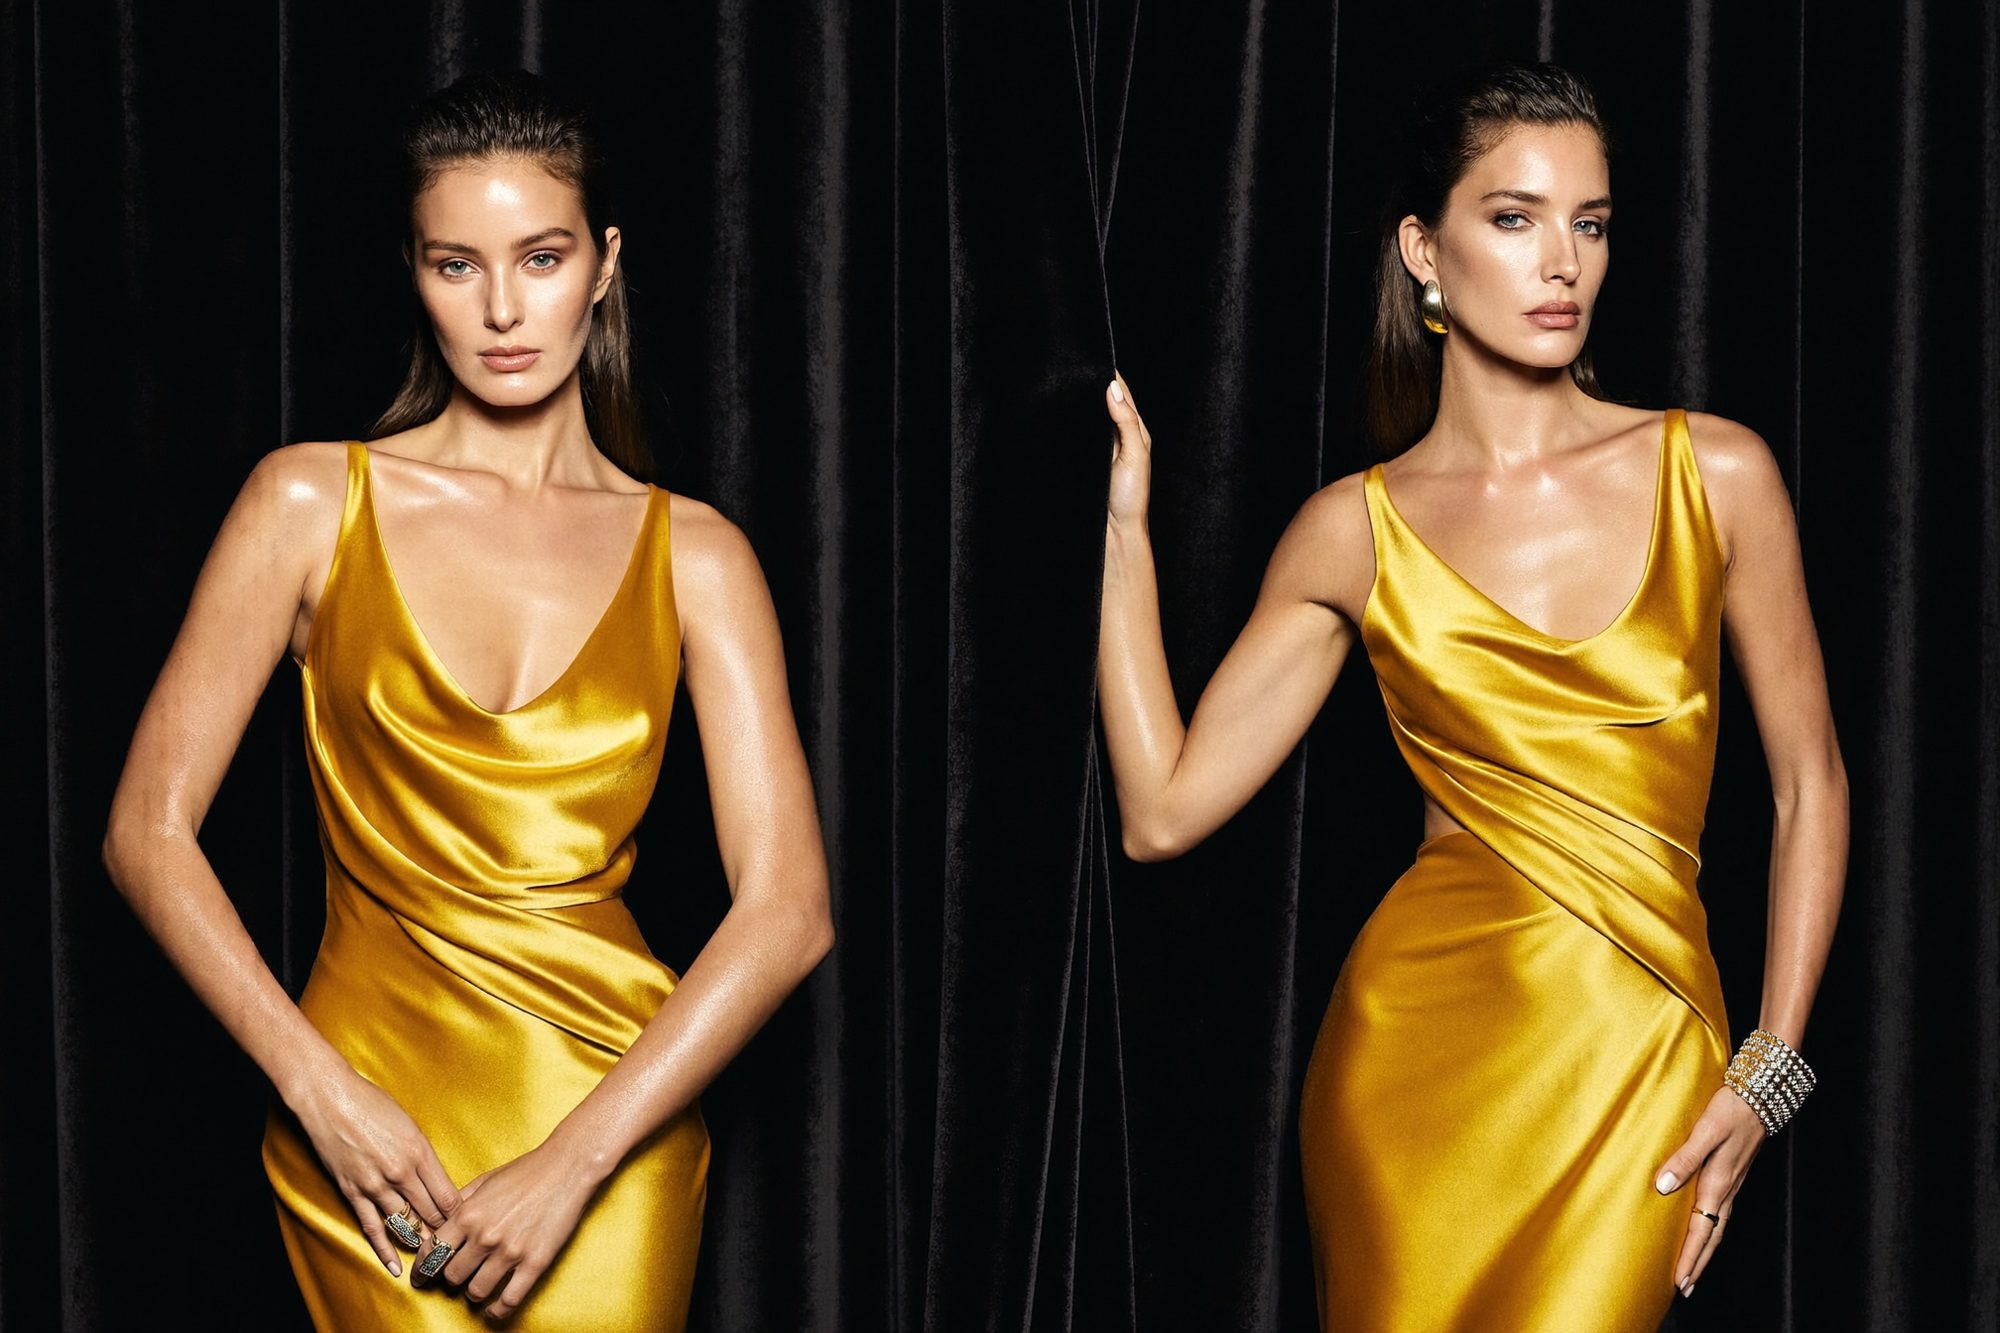
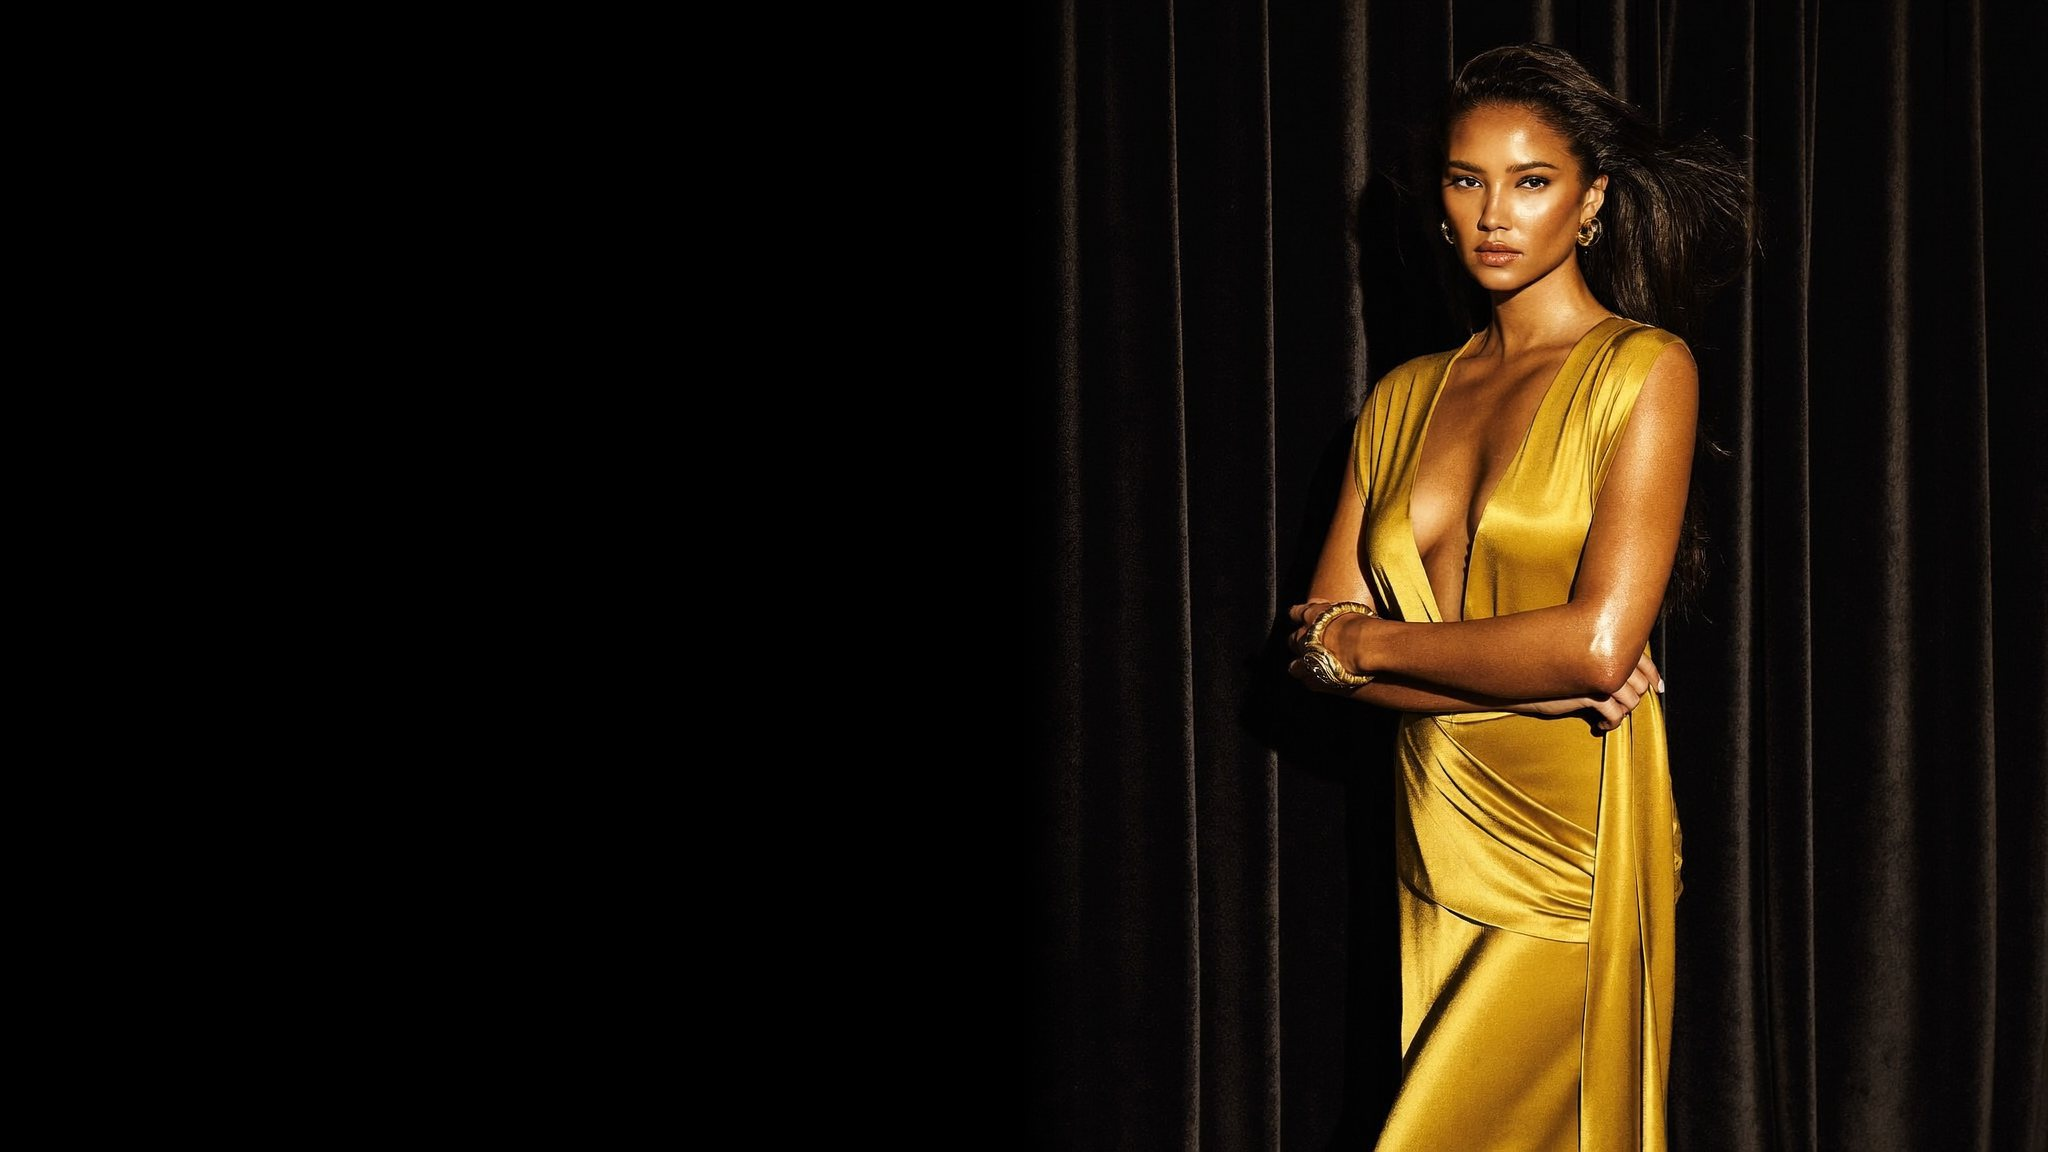
Luxury pass: brighter type, gold textures, new gown hero

diff --git a/a/peptides.css b/a/peptides.css
@@ -119,3 +119,35 @@
 /* photo beside copy, no overlay */
 .imgbox img{width:100%;display:block}
 .hart.pg.vt{object-position:60% 0%!important}
+
+/* ═══ luxury pass: readable ivory type, and no section left on bare black ═══ */
+.tcard p,.psplit p,.shead p,.kv .v,.steps li,.fam .names,.panel p,.prod p,.chip,.tbl td,.bleed p,.hero p.lede,.divsplit .dd{color:#DAD5CB}
+.tcard p,.prod p{font-size:15px}
+.steps li{color:#E6E1D8}
+.fine{color:#A39D93}
+.tcard .tn,.eyebrow,.kv .k,.fam .fh .eyebrow,.tbl th{color:#D9B86A}
+.kv .k,.tbl.cmp td.rk,.chiplab,.steps h4{color:#B9B2A7}
+.tcard h3,.psplit h2,.shead h2,.fam .fh .ct,.tier h3{color:#FBF8F1}
+.divsplit .dd{color:#E3DED4}
+
+/* textured sections: live gold field behind the copy, plus a slow ghost line of type */
+section.lux{position:relative;overflow:hidden;background:#000}
+section.lux>canvas.bfield{position:absolute;inset:0;width:100%;height:100%;z-index:0;pointer-events:none;opacity:.9}
+section.lux>canvas.gflow{position:absolute;inset:0;width:100%;height:100%;z-index:0;pointer-events:none;opacity:.34}
+section.lux::before{content:"";position:absolute;inset:0;z-index:1;pointer-events:none;
+  background:radial-gradient(120% 80% at 50% 50%,rgba(201,168,96,.075) 0%,rgba(0,0,0,0) 62%),
+             linear-gradient(180deg,#000 0%,rgba(0,0,0,0) 14%,rgba(0,0,0,0) 86%,#000 100%)}
+section.lux .ghost{position:absolute;left:0;right:0;top:50%;transform:translateY(-50%);z-index:1;pointer-events:none;
+  overflow:hidden;white-space:nowrap;font-family:Didot,"Bodoni 72","Playfair Display",Georgia,serif;
+  font-size:clamp(120px,17vw,260px);line-height:1;letter-spacing:.04em;
+  color:transparent;-webkit-text-stroke:1px rgba(201,168,96,.16);opacity:.9}
+section.lux .ghost span{display:inline-block;padding-right:.6em;animation:ghostrun 90s linear infinite}
+section.lux .ghost.rev span{animation-direction:reverse}
+@keyframes ghostrun{to{transform:translateX(-50%)}}
+section.lux>.wrap{position:relative;z-index:3}
+section.lux.photo>img.tex{position:absolute;inset:0;width:100%;height:100%;object-fit:cover;z-index:0;opacity:.20;
+  -webkit-mask-image:linear-gradient(180deg,transparent,#000 25%,#000 75%,transparent);mask-image:linear-gradient(180deg,transparent,#000 25%,#000 75%,transparent)}
+.tcard{background:rgba(0,0,0,.55);backdrop-filter:blur(6px);border-color:rgba(201,168,96,.24)}
+.panel{background:rgba(0,0,0,.55);backdrop-filter:blur(6px)}
+.final{position:relative;overflow:hidden}
+@media(prefers-reduced-motion:reduce){section.lux .ghost span{animation:none}}
